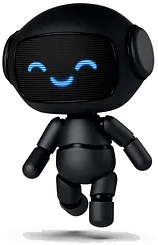
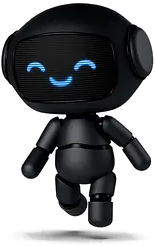
Optimize Jarvis pet animation

diff --git a/nexora_os/pet_app.py b/nexora_os/pet_app.py
@@ -1,6 +1,7 @@
 from __future__ import annotations
 
 import argparse
+import concurrent.futures
 import json
 import math
 import sys
@@ -82,6 +83,7 @@ def main() -> int:
             QDesktopServices,
             QFont,
             QPainter,
+            QPainterPath,
             QPen,
             QPixmap,
             QRadialGradient,
@@ -101,8 +103,13 @@ def main() -> int:
             self.phase = 0.0
             self.drag_start: QPoint | None = None
             self.roam_enabled = bool(args.roam)
-            self.roam_velocity = QPoint(1, 0)
+            self.roam_x = 80.0
+            self.roam_y = 120.0
+            self.roam_vx = 0.85
             self.robot = QPixmap(str(ROOT / "nexora_os" / "assets" / "jarvis_robot_pet.png"))
+            self.robot_frames = self._build_robot_frames()
+            self.status_pool = concurrent.futures.ThreadPoolExecutor(max_workers=1, thread_name_prefix="jarvis-pet-status")
+            self.status_future: concurrent.futures.Future[PetState] | None = None
             self.setWindowTitle("Jarvis Pet")
             self.setFixedSize(230, 292)
             self.setWindowFlags(
@@ -112,18 +119,36 @@ def main() -> int:
             )
             self.setAttribute(Qt.WidgetAttribute.WA_TranslucentBackground)
             self.setMouseTracking(True)
-            self.move(80, 120)
+            self.move(int(self.roam_x), int(self.roam_y))
 
             self.animation_timer = QTimer(self)
             self.animation_timer.timeout.connect(self._tick)
             self.animation_timer.start(33)
 
             self.status_timer = QTimer(self)
-            self.status_timer.timeout.connect(self._refresh_status)
+            self.status_timer.timeout.connect(self._request_status)
             self.status_timer.start(1500)
+            self.future_timer = QTimer(self)
+            self.future_timer.timeout.connect(self._collect_status)
+            self.future_timer.start(120)
+
+        def _build_robot_frames(self) -> list[QPixmap]:
+            if self.robot.isNull():
+                return []
+            base = self.robot.scaled(
+                160,
+                210,
+                Qt.AspectRatioMode.KeepAspectRatio,
+                Qt.TransformationMode.SmoothTransformation,
+            )
+            frames: list[QPixmap] = []
+            for index in range(24):
+                angle = math.sin((index / 24) * math.tau) * 3.5
+                frames.append(base.transformed(QTransform().rotate(angle), Qt.TransformationMode.SmoothTransformation))
+            return frames
 
         def _tick(self) -> None:
-            self.phase = (self.phase + 0.055) % (math.tau)
+            self.phase = (self.phase + 0.052) % (math.tau)
             if self.roam_enabled and self.drag_start is None:
                 self._roam_step()
             self.update()
@@ -132,20 +157,35 @@ def main() -> int:
             self.state = fetch_status(args.backend)
             self.update()
 
+        def _request_status(self) -> None:
+            if self.status_future and not self.status_future.done():
+                return
+            self.status_future = self.status_pool.submit(fetch_status, args.backend)
+
+        def _collect_status(self) -> None:
+            if not self.status_future or not self.status_future.done():
+                return
+            try:
+                self.state = self.status_future.result()
+            except Exception:
+                self.state = PetState(mode="offline", message="Jarvis backend is offline", backend_online=False, last_updated=time.time())
+            finally:
+                self.status_future = None
+            self.update()
+
         def _roam_step(self) -> None:
             screen = QApplication.primaryScreen()
             if screen is None:
                 return
             bounds = screen.availableGeometry()
-            speed = 1 if self.state.mode in {"idle", "offline"} else 2
-            wobble = int(math.sin(self.phase * 0.7) * 1)
-            next_pos = self.pos() + QPoint(self.roam_velocity.x() * speed, wobble)
-            if next_pos.x() < bounds.left() or next_pos.x() + self.width() > bounds.right():
-                self.roam_velocity.setX(-self.roam_velocity.x())
-                next_pos.setX(max(bounds.left(), min(next_pos.x(), bounds.right() - self.width())))
-            if next_pos.y() < bounds.top() or next_pos.y() + self.height() > bounds.bottom():
-                next_pos.setY(max(bounds.top(), min(next_pos.y(), bounds.bottom() - self.height())))
-            self.move(next_pos)
+            speed = 1.0 if self.state.mode in {"idle", "offline"} else 1.7
+            self.roam_x += self.roam_vx * speed
+            self.roam_y += math.sin(self.phase * 0.7) * 0.35
+            if self.roam_x < bounds.left() or self.roam_x + self.width() > bounds.right():
+                self.roam_vx *= -1
+                self.roam_x = max(bounds.left(), min(self.roam_x, bounds.right() - self.width()))
+            self.roam_y = max(bounds.top(), min(self.roam_y, bounds.bottom() - self.height()))
+            self.move(int(round(self.roam_x)), int(round(self.roam_y)))
 
         def mousePressEvent(self, event: Any) -> None:
             if event.button() == Qt.MouseButton.LeftButton:
@@ -156,7 +196,10 @@ def main() -> int:
 
         def mouseMoveEvent(self, event: Any) -> None:
             if self.drag_start is not None and event.buttons() & Qt.MouseButton.LeftButton:
-                self.move(event.globalPosition().toPoint() - self.drag_start)
+                next_pos = event.globalPosition().toPoint() - self.drag_start
+                self.roam_x = float(next_pos.x())
+                self.roam_y = float(next_pos.y())
+                self.move(next_pos)
                 event.accept()
 
         def mouseReleaseEvent(self, event: Any) -> None:
@@ -206,8 +249,14 @@ def main() -> int:
             if screen is None:
                 return
             bounds = screen.availableGeometry()
-            self.move(bounds.right() - self.width() - 24, bounds.top() + 24)
+            self.roam_x = float(bounds.right() - self.width() - 24)
+            self.roam_y = float(bounds.top() + 24)
+            self.move(int(self.roam_x), int(self.roam_y))
             self.roam_enabled = False
+
+        def closeEvent(self, event: Any) -> None:
+            self.status_pool.shutdown(wait=False, cancel_futures=True)
+            event.accept()
 
         def paintEvent(self, event: Any) -> None:
             painter = QPainter(self)
@@ -237,20 +286,19 @@ def main() -> int:
             painter.drawEllipse(QRectF(cx - radius * 1.6, cy - radius * 1.6, radius * 3.2, radius * 3.2))
 
             shadow_width = 84 + math.sin(self.phase) * 8
-            painter.setBrush(QColor(0, 0, 0, 45))
+            shadow = QRadialGradient(115, 226, 64)
+            shadow.setColorAt(0.0, QColor(0, 0, 0, 62))
+            shadow.setColorAt(0.75, QColor(0, 0, 0, 20))
+            shadow.setColorAt(1.0, QColor(0, 0, 0, 0))
+            painter.setBrush(shadow)
             painter.setPen(Qt.PenStyle.NoPen)
             painter.drawEllipse(QRectF(73 - shadow_width / 2 + 42, 217, shadow_width, 17))
 
-            if not self.robot.isNull():
-                robot = self.robot.scaled(
-                    160,
-                    210,
-                    Qt.AspectRatioMode.KeepAspectRatio,
-                    Qt.TransformationMode.SmoothTransformation,
-                )
-                tilt = math.sin(self.phase * 0.75) * (3 if self.state.mode != "thinking" else 6)
-                transform = QTransform().rotate(tilt)
-                robot = robot.transformed(transform, Qt.TransformationMode.SmoothTransformation)
+            if self.robot_frames:
+                frame_index = int((self.phase / math.tau) * len(self.robot_frames)) % len(self.robot_frames)
+                if self.state.mode == "thinking":
+                    frame_index = int((self.phase * 1.8 / math.tau) * len(self.robot_frames)) % len(self.robot_frames)
+                robot = self.robot_frames[frame_index]
                 x = int((self.width() - robot.width()) / 2 + math.sin(self.phase * 0.55) * 4)
                 y = int(22 + bob)
                 painter.drawPixmap(x, y, robot)
@@ -267,9 +315,11 @@ def main() -> int:
                     painter.drawEllipse(QRectF(44 + i * 64, 30 + math.sin(self.phase + i) * 4, 7, 7))
 
             panel = QRectF(18, 238, 194, 40)
+            panel_path = QPainterPath()
+            panel_path.addRoundedRect(panel, 8, 8)
             painter.setBrush(QColor(3, 7, 18, 205))
             painter.setPen(QPen(QColor(255, 255, 255, 55), 1))
-            painter.drawRoundedRect(panel, 8, 8)
+            painter.drawPath(panel_path)
 
             painter.setFont(QFont("Segoe UI", 8, QFont.Weight.DemiBold))
             painter.setPen(QColor(240, 249, 255))
@@ -298,6 +348,7 @@ def main() -> int:
                         "mode": pet.state.mode,
                         "backend_online": pet.state.backend_online,
                         "robot_asset": not pet.robot.isNull(),
+                        "cached_frames": len(pet.robot_frames),
                         "roam_enabled": pet.roam_enabled,
                         "size": [pet.width(), pet.height()],
                     }
